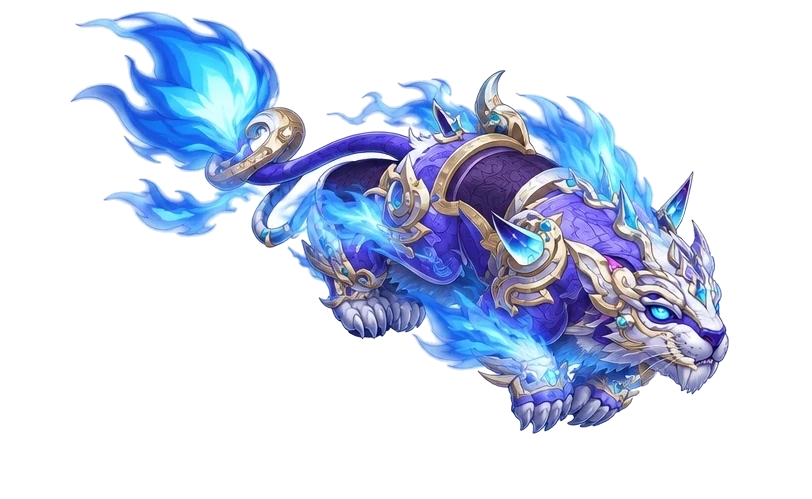
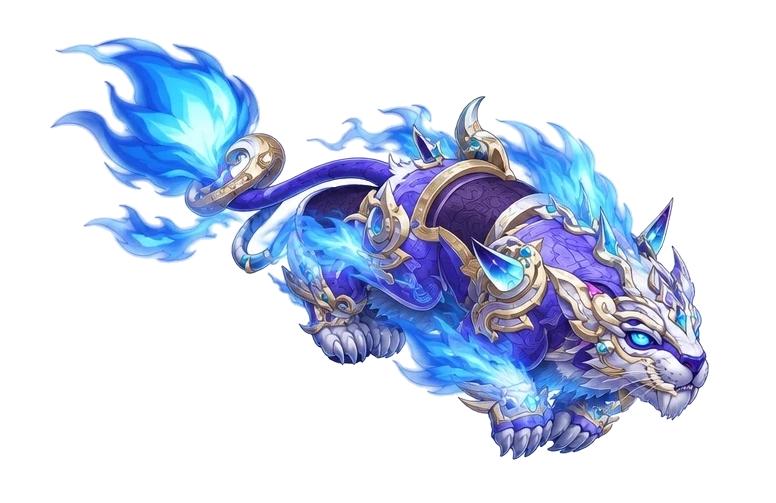
Mount page: steady 紫霄靈虎's run
Each frame is placed by the tiger's head and back, so the body no longer jumps between drawn sheets; a short cross-fade softens the joins.

diff --git a/src/features/mount/domain/MountCatalog.ts b/src/features/mount/domain/MountCatalog.ts
@@ -73,7 +73,7 @@ export const mountCatalog: readonly MountConfig[] = [
     description: "身披紫霄銀金戰甲的白虎，尾燃藍色靈焰，奔走時四爪踏焰、勢如雷霆。",
     unlockZh: "通關通天塔第 400 關",
     unlockStage: 400,
-    sprite: { sheet: "/assets/mounts/紫霄靈虎-sheet.webp", poster: "/assets/mounts/紫霄靈虎-poster.webp", cols: 6, cellWidth: 812, cellHeight: 499, frames: 24, frameMs: 110, blendMs: 0, endHoldMs: 110 },
+    sprite: { sheet: "/assets/mounts/紫霄靈虎-sheet.webp", poster: "/assets/mounts/紫霄靈虎-poster.webp", cols: 6, cellWidth: 776, cellHeight: 503, frames: 24, frameMs: 90, blendMs: 40, endHoldMs: 90 },
     travels: true,
     stat: "demonCoreYield",
     baseBonus: 0.05,
